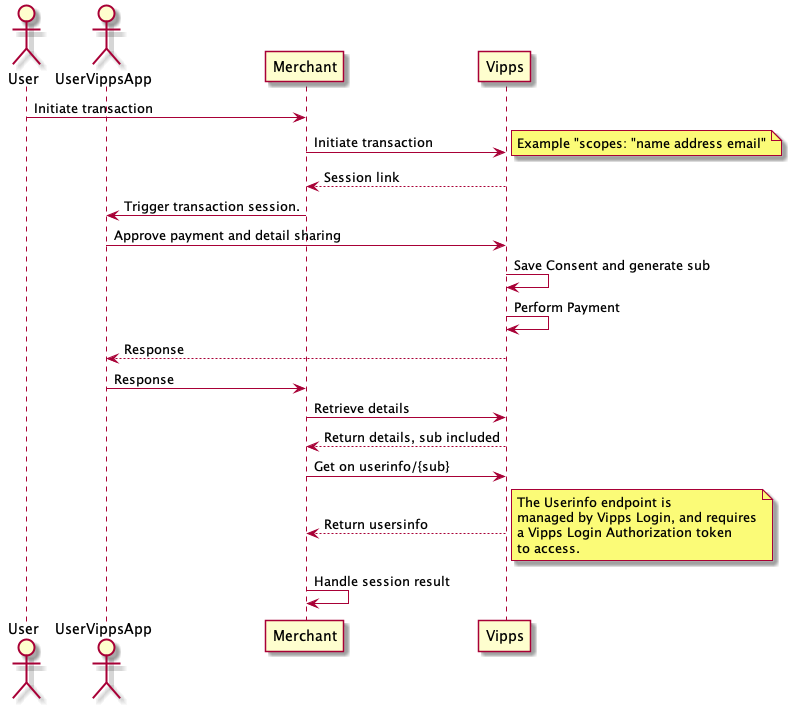
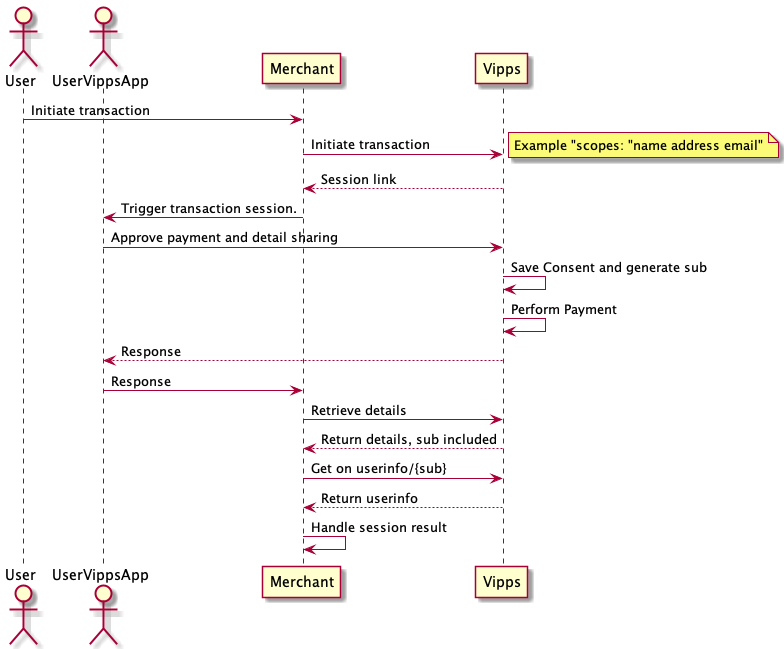
TE-1710: Update swagger and documentation to reflect upcoming functionality where it is possible to fetch userinfo with azure access token both with merchant and partner clients.

diff --git a/vipps-ecom-api.md b/vipps-ecom-api.md
@@ -82,7 +82,6 @@ Document version 2.5.19.
     - [Scopes](#scopes)
     - [Userinfo call by call guide](#userinfo-call-by-call-guide)
     - [Get userinfo](#get-userinfo)
-    - [Vipps Login access token](#vipps-login-access-token)
     - [Userinfo call](#userinfo-call)
     - [Consent](#consent)
   - [HTTP response codes](#http-response-codes)
@@ -912,7 +911,7 @@ Request:
     "country": "Norway",
     "city": "OSLO",
     "postCode": "0191",
-    "addressType": "H",
+    "addressType": "H"
 }
 ```
 
@@ -1384,16 +1383,20 @@ See [Timeouts](#timeouts) for details about timeouts.
 
 ## Userinfo
 
-Vipps offers the possibility for merchants to ask for the user's profile
-information as part of the payment flow. This is done by adding a `scope`
+Vipps offers the possibility for merchants to ask for the user's profile information as part of the payment flow. 
+This is done through Vipps Userinfo which 
+You can learn more at the [OIDC Standard](https://openid.net/specs/openid-connect-core-1_0.html#UserInfo).
+
+To enable the posibility to fetch profile information for a user the merchant can add a `scope`
 parameter to the initiate call:
 [`POST:/ecomm/v2/payments`](https://vippsas.github.io/vipps-ecom-api/#/Vipps%20eCom%20API/initiatePaymentV3UsingPOST).
 
-If the enduser has not already consented to sharing information from Vipps to the merchant the user will be asked for such consent before completing the payment flow. Once the payment flow is completed the merchant can get the profile information from our Userinfo endpoint. The Userinfo endpoint is shared with [Vipps login](https://github.com/vippsas/vipps-login-api) and the merchant needs to have activated Vipps login to use this feature.
+If the enduser has not already consented to sharing information from Vipps to the merchant the user will be asked for 
+such consent before completing the payment flow. Once the payment flow is completed the merchant can get the profile 
+information from our Userinfo endpoint.
 
-To activate for Vipps Login - go to the developer section under https://portal.vipps.no and click "Setup login" for the desired account. When this is enabled, you get access to both Vipps login as a product, or fetching the users profileinfo can be used as standalone. If you are only using userinfo to fetch users profile info as part of a payment flow, you do not need to input redirect URIs when setting up login.
-
-A users consent to share information with a merchant applies accross our services. Thus, if the merchant implements Vipps login in addition to profile information as part of the payment flow, the merchant can also use Vipps to log the user in without the need for additional consents.
+A users consent to share information with a merchant applies across our services. Thus, if the merchant implements Vipps login 
+in addition to profile information as part of the payment flow, the merchant can also use Vipps to log the user in without the need for additional consents.
 
 ### Scopes
 
@@ -1428,30 +1431,16 @@ a customer.
 3. The user consents to the information sharing and perform the payment in Vipps.
 4. Retrieve the `sub` by calling
    [`GET:/ecomm/v2/payments/{orderId}/details`](https://vippsas.github.io/vipps-ecom-api/#/Vipps%20eCom%20API/getPaymentDetailsUsingGET)
-5. Generate an OAuth 2 access token with
-   [`POST:/oauth2/token`](https://vippsas.github.io/vipps-login-api/#/Vipps%20Log%20In%20API/oauth2Token),
-   using the `clientId:client_secret` as base64 as described in
-   [Vipps Login access token](#vipps-login-access-token),
-   with the `grant_type` set to `"client_credentials"`.
-6. Using the access token from step 5, call
-   [`GET:/vipps-userinfo-api/userinfo/{sub}`](https://vippsas.github.io/vipps-login-api/#/Vipps%20Log%20In%20API/userinfo)
+5. Using the sub from step 4, call
+   [`GET:/vipps-userinfo-api/userinfo/{sub}`](https://vippsas.github.io/vipps-ecom-api/#/Vipps%20eCom%20API/getUserinfo)
    to retrieve the user's information.
 
 **Important note:** The API call to
-[`GET:/vipps-userinfo-api/userinfo/{sub}`](https://vippsas.github.io/vipps-login-api/#/Vipps%20Log%20In%20API/userinfo)
-must _not_ include the subscription key used for the eCom API as Login
-is _not_ under the same subscription, and will result in a
-`HTTP Unauthorized 401` error.
+[`GET:/vipps-userinfo-api/userinfo/{sub}`](https://vippsas.github.io/vipps-ecom-api/#/Vipps%20eCom%20API/getUserinfo)
+must _not_ include the subscription key used for the eCom API. This is because userinfo is part of Vipps Login and is therefore
+_not_ under the same subscription, and will result in a `HTTP Unauthorized 401` error.
 
 ### Get userinfo
-
-The
-[`GET:/vipps-userinfo-api/userinfo/{sub}`](https://vippsas.github.io/vipps-login-api/#/Vipps%20Log%20In%20API/userinfo)
-endpoint is shared between the Vipps eCom API and the
-[Vipps Login API](https://github.com/vippsas/vipps-login-api)
-and the merchant needs to have
-[activated Vipps Login](https://github.com/vippsas/vipps-login-api/blob/master/vipps-login-api-faq.md#how-can-i-activate-and-set-up-vipps-login)
-to use this feature.
 
 Once the user completes the session a unique identifier `sub` can be retrieved from the
 [`GET:/ecomm/v2/payments/{orderId}/details`](https://vippsas.github.io/vipps-ecom-api/#/Vipps%20eCom%20API/getPaymentDetailsUsingGET) endpoint.
@@ -1463,8 +1452,8 @@ Example `sub` format:
 ```
 
 This `sub` is a link between the merchant and the user and can be used to retrieve
-the user's details from Vipps Login:
-[`GET:/vipps-userinfo-api/userinfo/{sub}`](https://vippsas.github.io/vipps-login-api/#/Vipps%20Log%20In%20API/userinfo)
+the user's details from Vipps userinfo:
+[`GET:/vipps-userinfo-api/userinfo/{sub}`](https://vippsas.github.io/vipps-ecom-api/#/Vipps%20eCom%20API/getUserinfo)
 
 **Please note:** It is recommended to get the user's information directly after
 completing the transaction. There is however a _time limit of 168 hours_
@@ -1475,57 +1464,12 @@ user profile at the time when they actually fetch the information. This means
 that the information might have changed from the time the user completed the
 transaction and the fetching of the profile data.
 
-### Vipps Login access token
-
-Accessing the Login `userinfo` endpoint required the Vipps Login access token: [`POST:/oauth2/token`](https://vippsas.github.io/vipps-login-api/#/Vipps%20Log%20In%20API/oauth2Token). The client constructs the request by adding the parameters described below to the HTTP body by using the `application/x-www-form-urlencoded` format.
-
-**Request**
-
-*Headers*
-
-| Header            | Description                           |
-| ----------------- | ------------------------------------- |
-| Content-Type      | "application/x-www-form-urlencoded"   |
-| Authorization     | "Basic {Client Credentials}"          |
-
-The Client Credentials is a base 64 encoded string consisting of the Client id
-and secret issued by Vipps joined by ":"
-
-Example of generating the client credentials in bash where:
-
-- client_id = 123456-test-4a3d-a47c-412136fd0871
-- client_secret = testdzlJbUZaM1lqODlnUUtrUHI=
-
-```bash
-echo "123456-test-4a3d-a47c-412136fd0871:testdzlJbUZaM1lqODlnUUtrUHI=" | base64
-```
-
[1 lines of base64/hex data omitted]
-
-*Form content*
-
-| Key               | Description                         |
-| ----------------- | ----------------------------------- |
-| grant_type        | Value **must** be the actual string  `"client_credentials"`, not the value generated above.  |
-
-**Example response:**
-
-```json
-{
-  "access_token": "hel39XaKjGH5tkCvIENGPNbsSHz1DLKluOat4qP-A4.WyV61hCK1E2snVs1aOvjOWZOXOayZad0K-Qfo3lLzus",
-  "id_token": "eyJhbGciOiJSUzI1NiIsImtpZCI6InB1YmxpYzo4MGYzYzM0YS05Nzc <snip>",
-  "expires_in": 3599,
-  "scope": "openid",
-  "token_type": "bearer"
-}
-```
-
 ### Userinfo call
 
-This endpoint returns the payload with the information that the user has consented to share, which is provided in the OAuth 2.0 access token.
-You can learn more at the [OIDC Standard](https://openid.net/specs/openid-connect-core-1_0.html#UserInfo).
+This endpoint returns the payload with the information that the user has consented to share.
 
-Call [`GET:/vipps-userinfo-api/userinfo/{sub}`](https://vippsas.github.io/vipps-login-api/#/Vipps%20Log%20In%20API/userinfo) with the `sub` that was retrieved earlier. See below on how to construct the call.
+Call [`GET:/vipps-userinfo-api/userinfo/{sub}`](https://vippsas.github.io/vipps-ecom-api/#/Vipps%20eCom%20API/getUserinfo) 
+with the `sub` that was retrieved earlier. See below on how to construct the call.
 
 **Request**
 
@@ -1535,7 +1479,10 @@ Call [`GET:/vipps-userinfo-api/userinfo/{sub}`](https://vippsas.github.io/vipps-
 | ----------------- | -------------------------------------  |
 | Authorization     | "Bearer {Access Token}"                |
 
-The access token is received on a successful request to the token endpoint described above.
+The access token is received on a successful request to the token endpoint described in [Authentication](#authentication).
+
+**Important note:** Subscription key used for the eCom API must _not_ be included. This is because userinfo is part of 
+Vipps Login and is therefore _not_ under the same subscription, and will result in a `HTTP Unauthorized 401` error.
 
 **Example response:**
 
@@ -1586,8 +1533,6 @@ The access token is received on a successful request to the token endpoint descr
     ]
 }
 ```
-
-**Please note:** More documentation about the token and userinfo endpoint can be found [here](https://github.com/vippsas/vipps-login-api/blob/master/vipps-login-api.md#access-token).
 
 ![Userinfo sequence](images/userinfo-direct.png)
 
